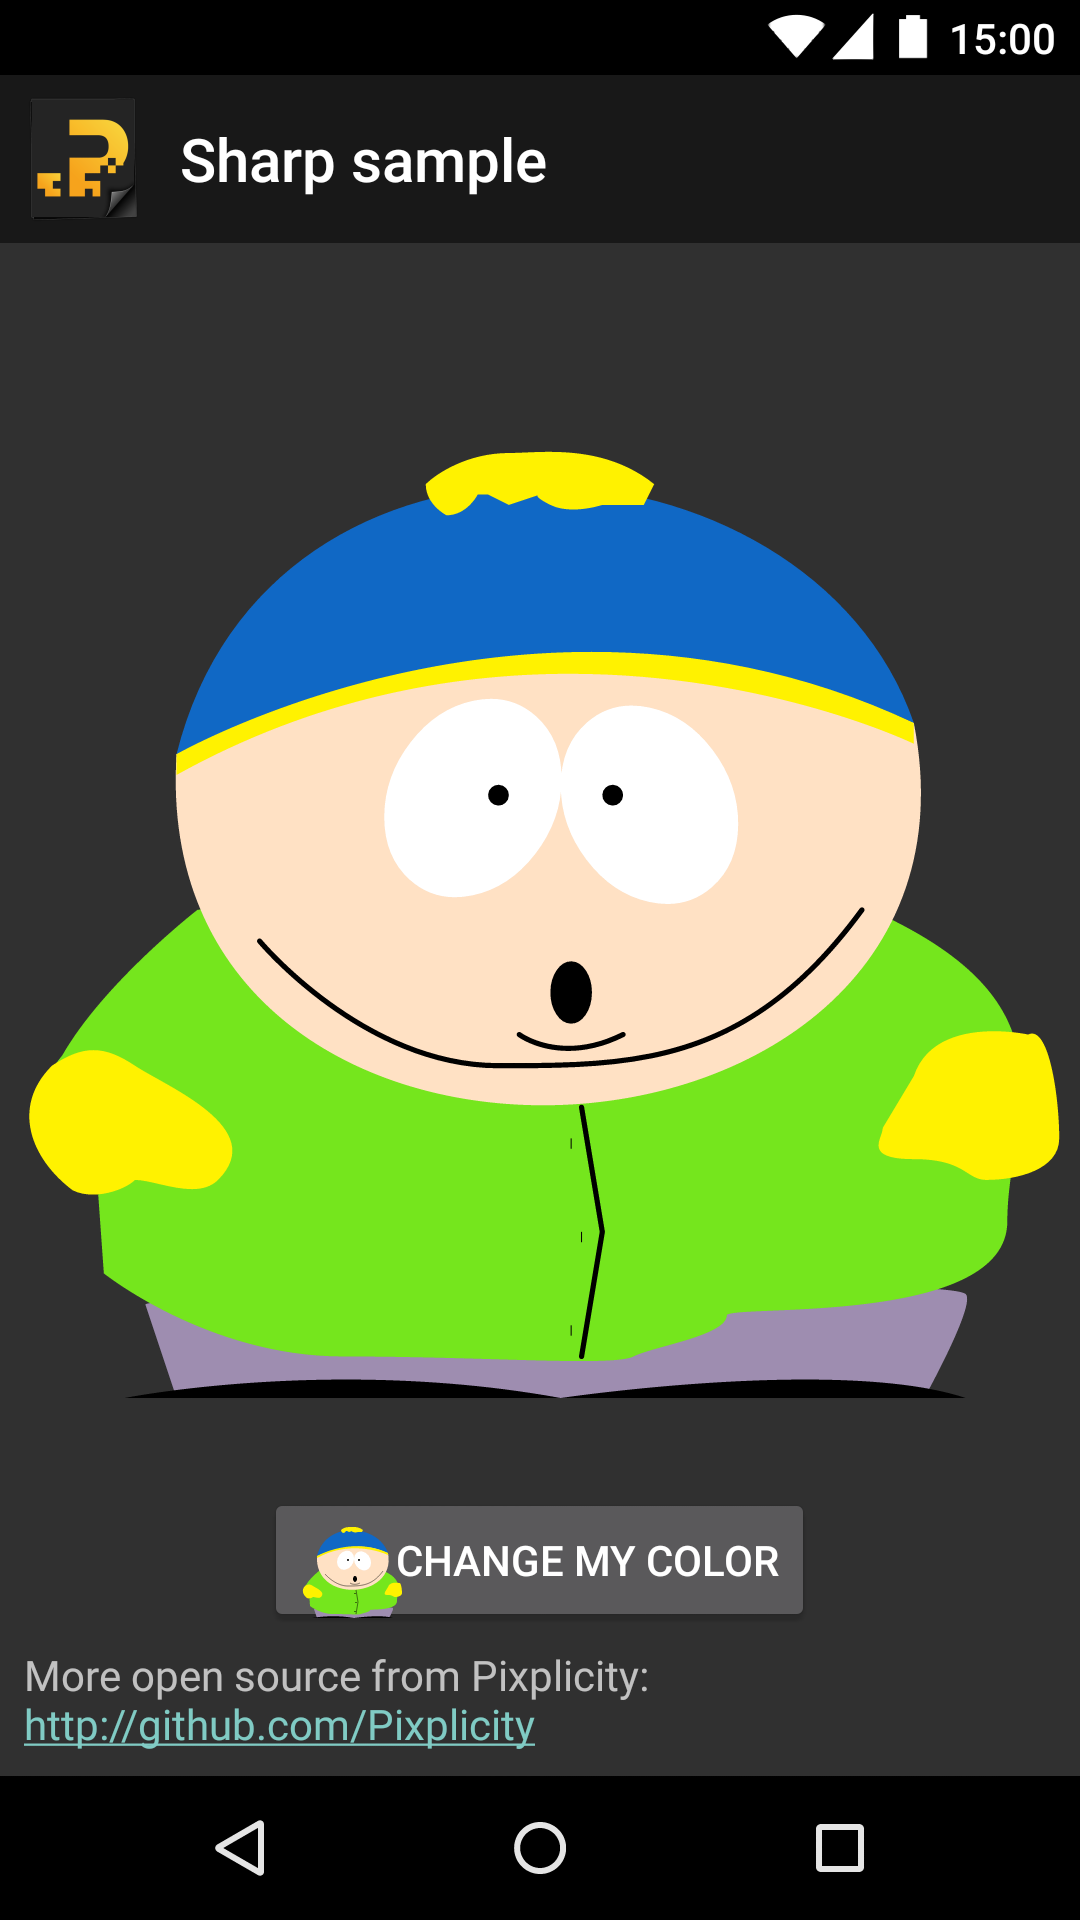
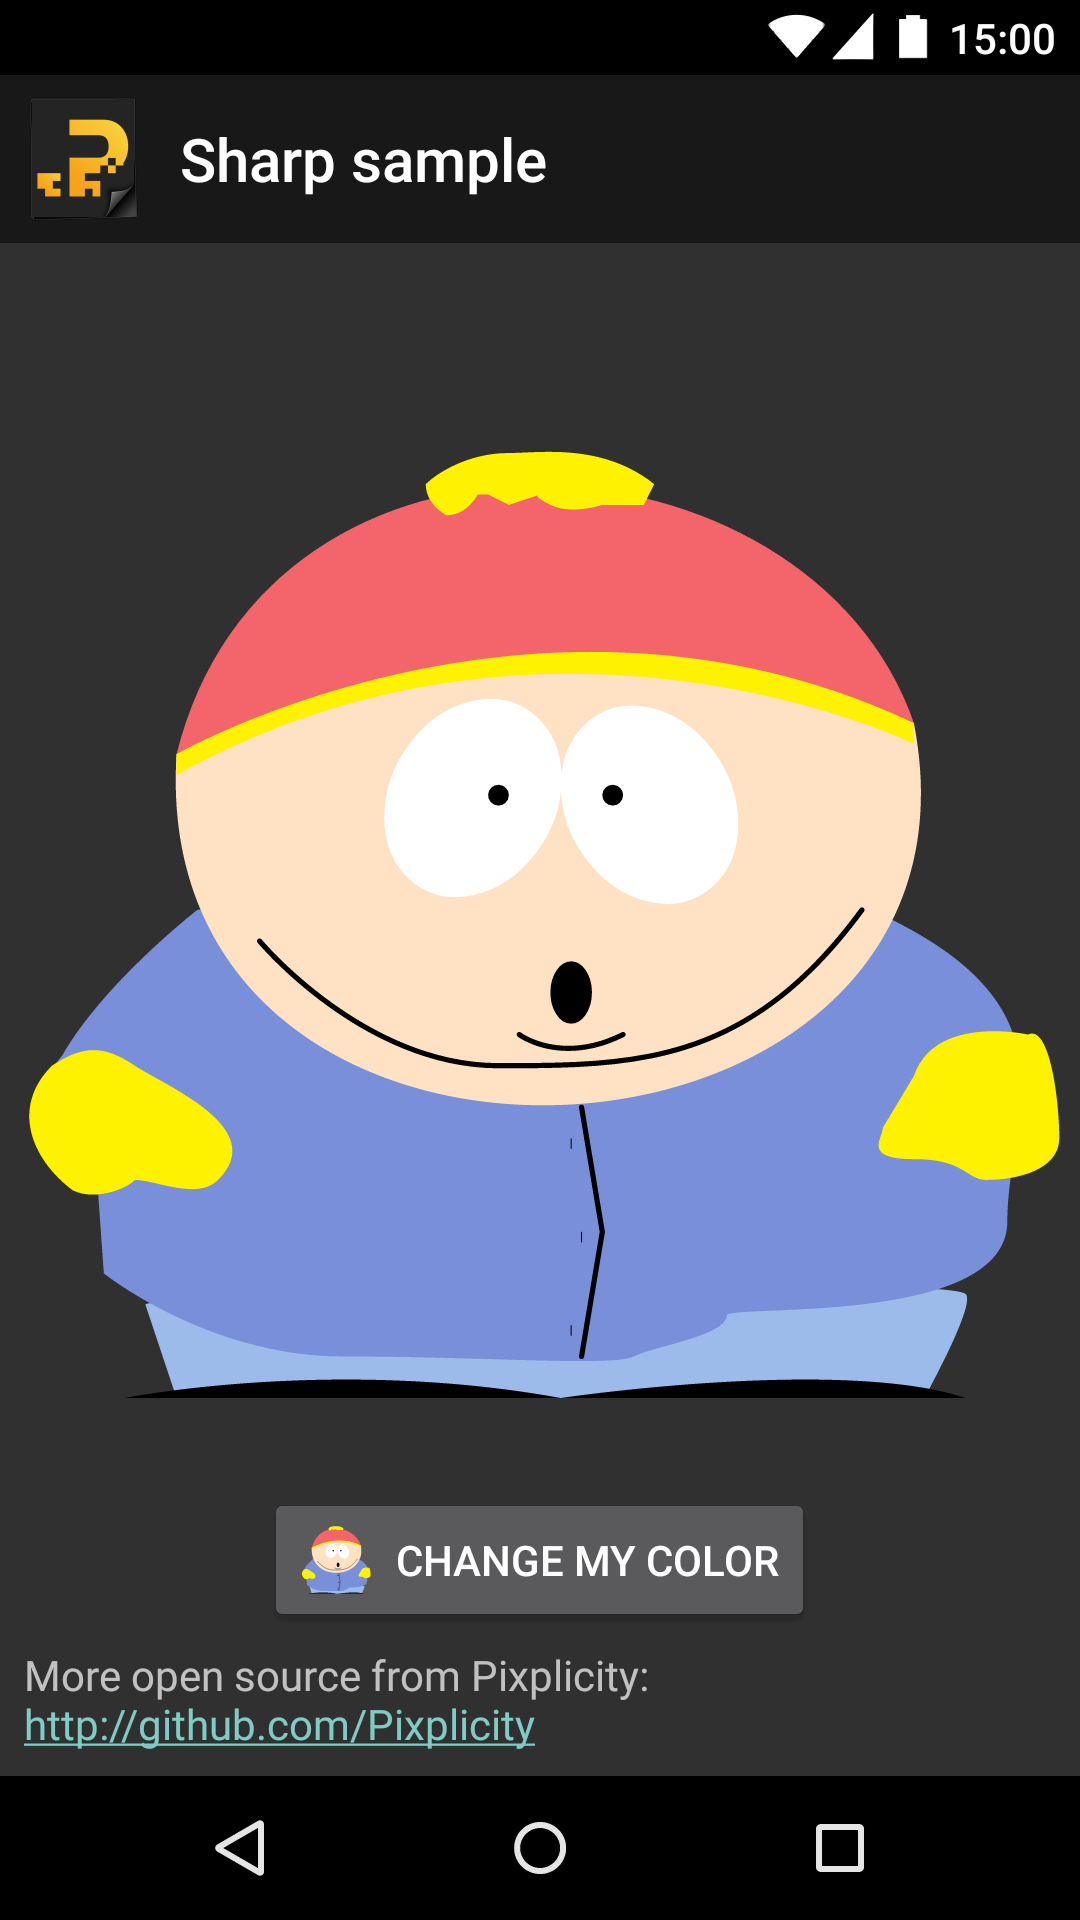
resolved #1 provide facility to create a new drawable apply this resolution in the sample

Changed region(s): [[0.0611, 0.4688, 0.9472, 0.75], [0.1528, 0.25, 0.8556, 0.4062], [0.275, 0.7812, 0.3667, 0.8438]]

diff --git a/sample-imageview/src/main/java/com/pixplicity/sharp/imageviewdemo/SvgDemoActivity.java b/sample-imageview/src/main/java/com/pixplicity/sharp/imageviewdemo/SvgDemoActivity.java
@@ -65,21 +65,21 @@ public class SvgDemoActivity extends AppCompatActivity {
         mButton.setOnClickListener(new View.OnClickListener() {
             @Override
             public void onClick(View v) {
-                reloadSvg();
+                reloadSvg(true);
             }
         });
 
         mAttacher = new PhotoViewAttacher(mImageView);
         mAttacher.setMaximumScale(10f);
 
-        reloadSvg();
+        reloadSvg(false);
     }
 
-    private void reloadSvg() {
+    private void reloadSvg(final boolean changeColor) {
         mSvg.setOnElementListener(new OnSvgElementListener() {
             @Override
             public <T> T onSvgElement(String id, T element, Paint paint) {
-                if ("shirt".equals(id) || "hat".equals(id) || "pants".equals(id)) {
+                if (changeColor && ("shirt".equals(id) || "hat".equals(id) || "pants".equals(id))) {
                     Random random = new Random();
                     paint.setColor(Color.argb(255, random.nextInt(256),
                             random.nextInt(256), random.nextInt(256)));
@@ -90,12 +90,14 @@ public class SvgDemoActivity extends AppCompatActivity {
         SharpPicture picture = mSvg.getSharpPicture();
 
         {
-            Drawable drawable = picture.getDrawable(mImageView);
+            Drawable drawable = picture.createDrawable(mImageView);
             mImageView.setImageDrawable(drawable);
         }
 
         {
-            Drawable drawable = picture.getDrawable(mButton);
+            // We don't want to use the same drawable, as we're specifying a custom size; therefore
+            // we call createDrawable() instead of getDrawable()
+            Drawable drawable = picture.createDrawable(mButton);
             int iconSize = getResources().getDimensionPixelSize(R.dimen.icon_size);
             drawable.setBounds(0, 0, iconSize, iconSize);
             mButton.setCompoundDrawables(

diff --git a/library/src/main/java/com/pixplicity/sharp/SharpPicture.java b/library/src/main/java/com/pixplicity/sharp/SharpPicture.java
@@ -83,8 +83,21 @@ public class SharpPicture {
      * @param view {@link View} that will hold this drawable
      * @return the Drawable.
      */
+    public SharpDrawable createDrawable(@Nullable View view) {
+        mDrawable = null;
+        return getDrawable(view);
+    }
+
+    /**
+     * Get the drawable from the SVG. This drawable may be cached; if you want a new drawable, call
+     * {@link #createDrawable(View)}. A view may be provided so that it's LayerType is set to
+     * LAYER_TYPE_SOFTWARE.
+     *
+     * @param view {@link View} that will hold this drawable
+     * @return the Drawable.
+     */
     public SharpDrawable getDrawable(@Nullable View view) {
-        if (mDrawable == null) {
+        if (true || mDrawable == null) {
             mDrawable = new SharpDrawable(view, mPicture);
         } else {
             SharpDrawable.prepareView(view);
